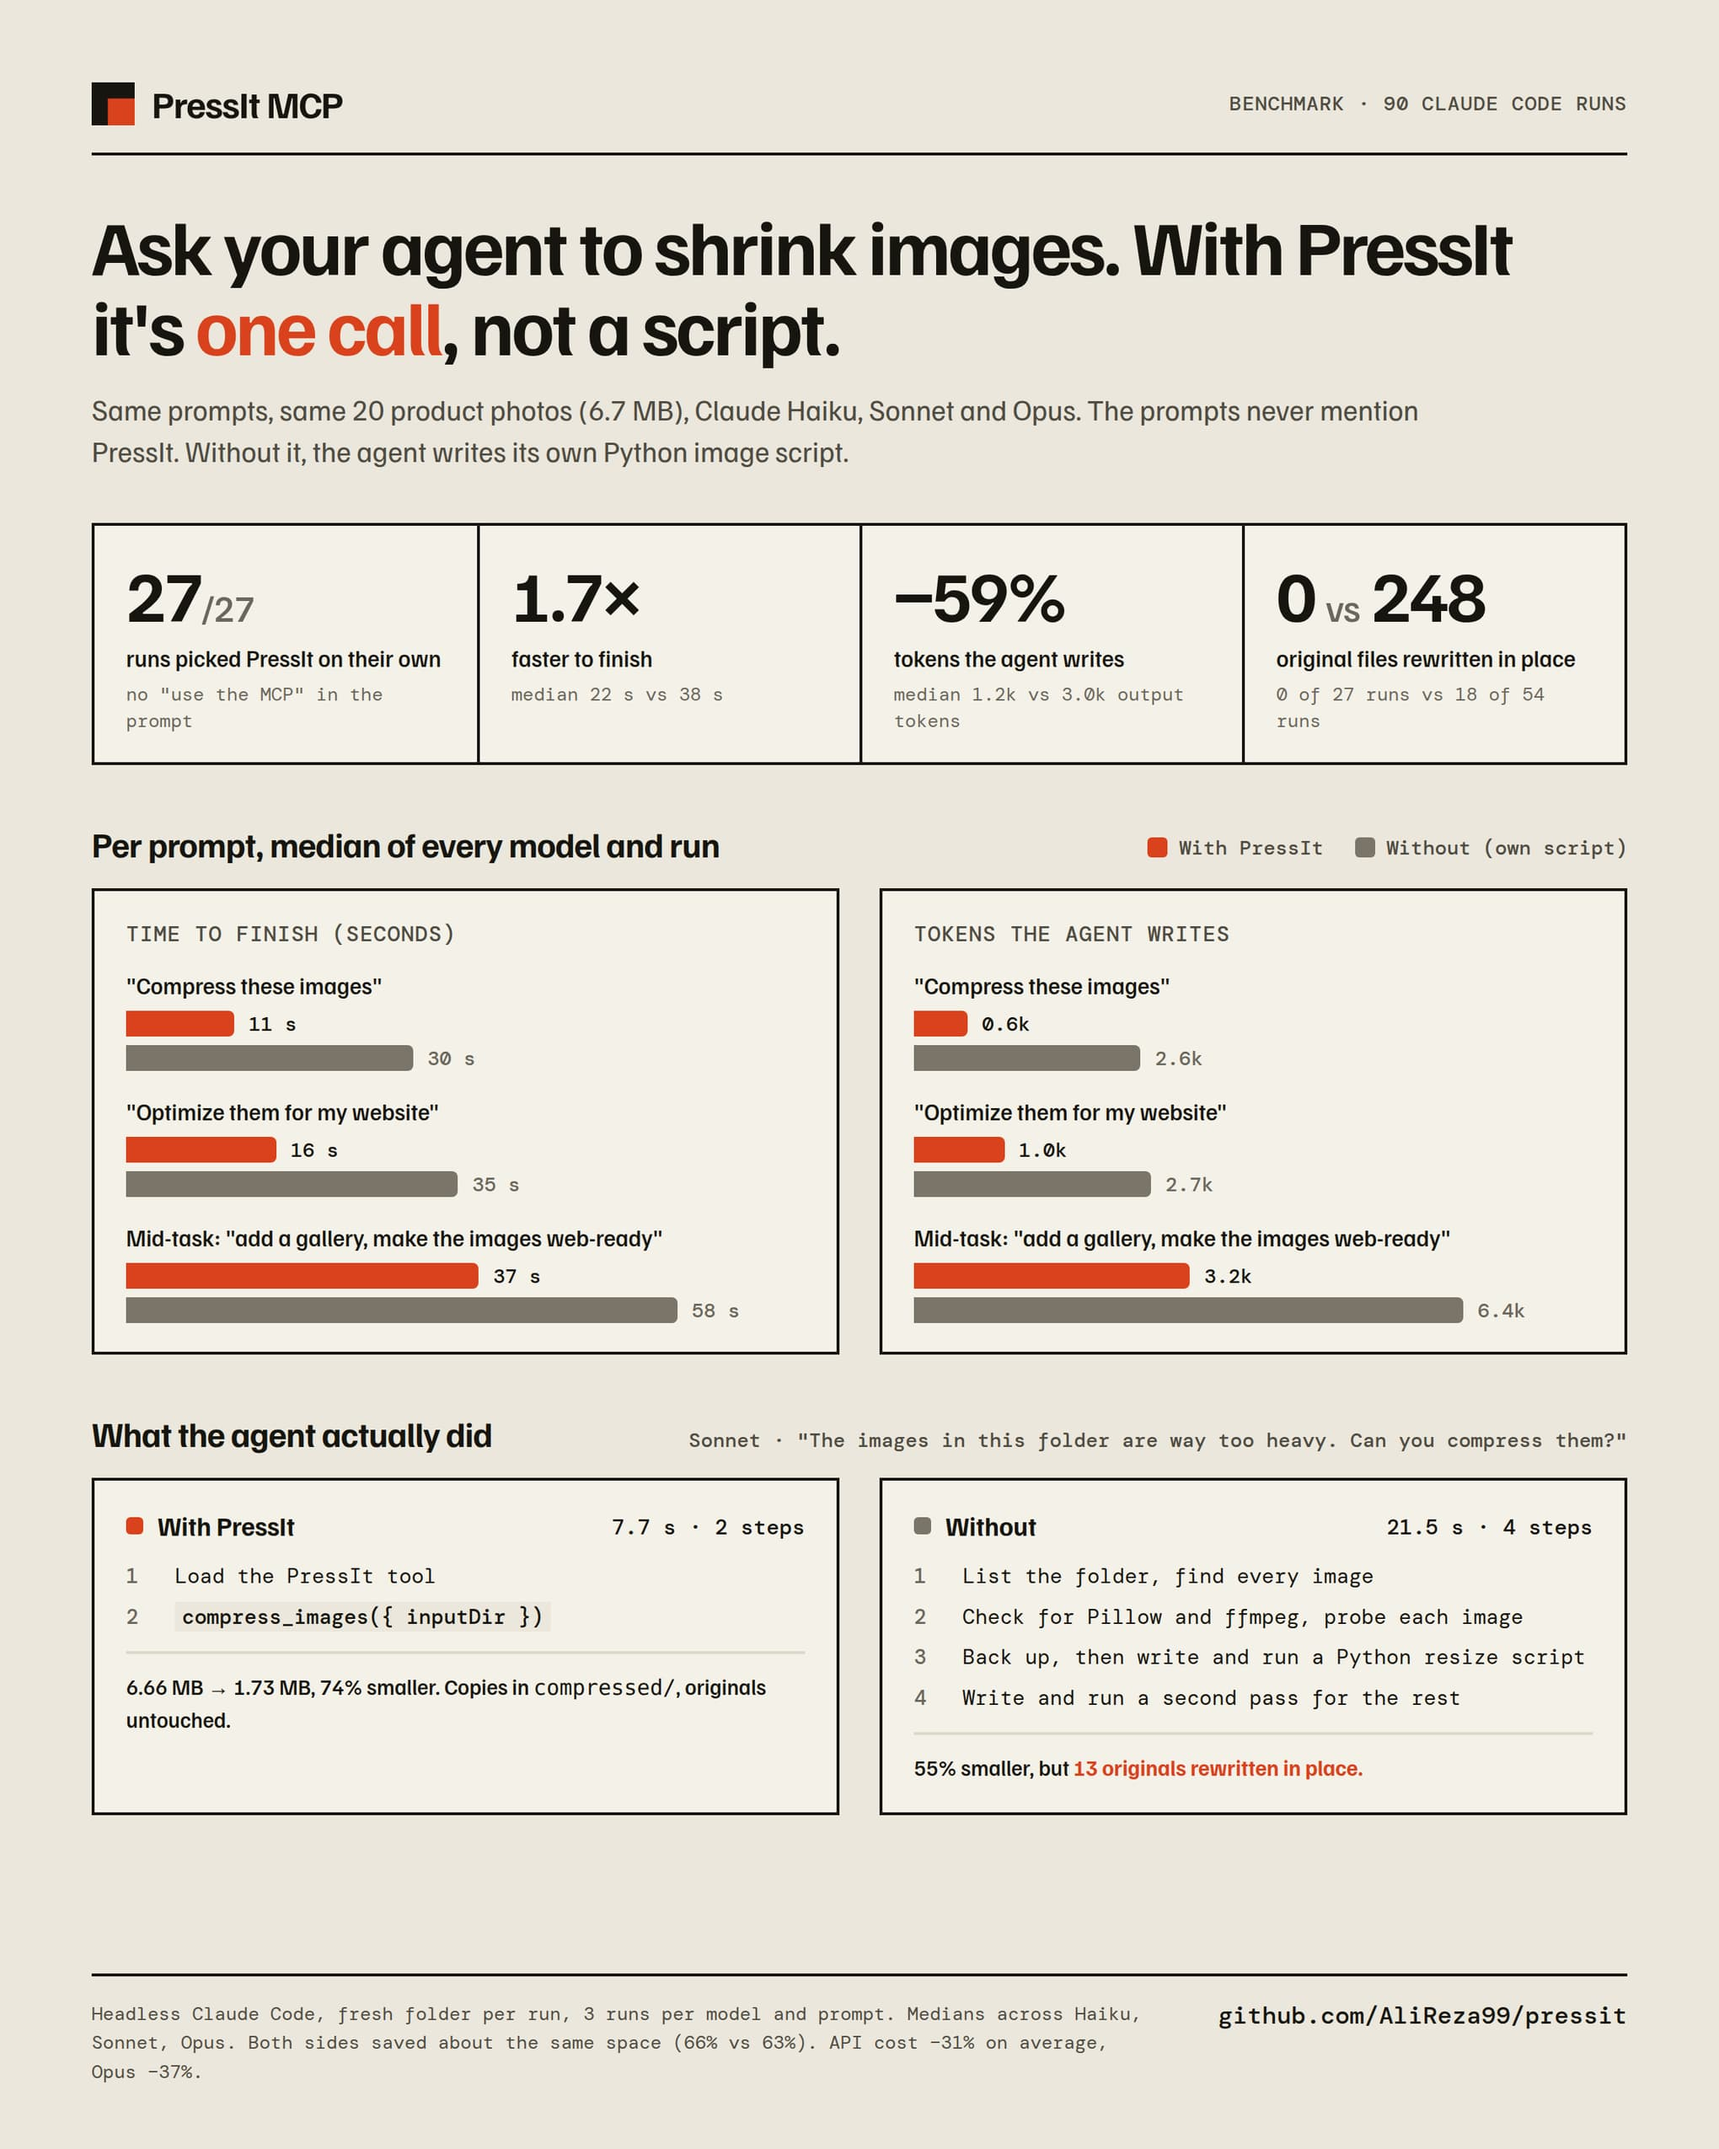
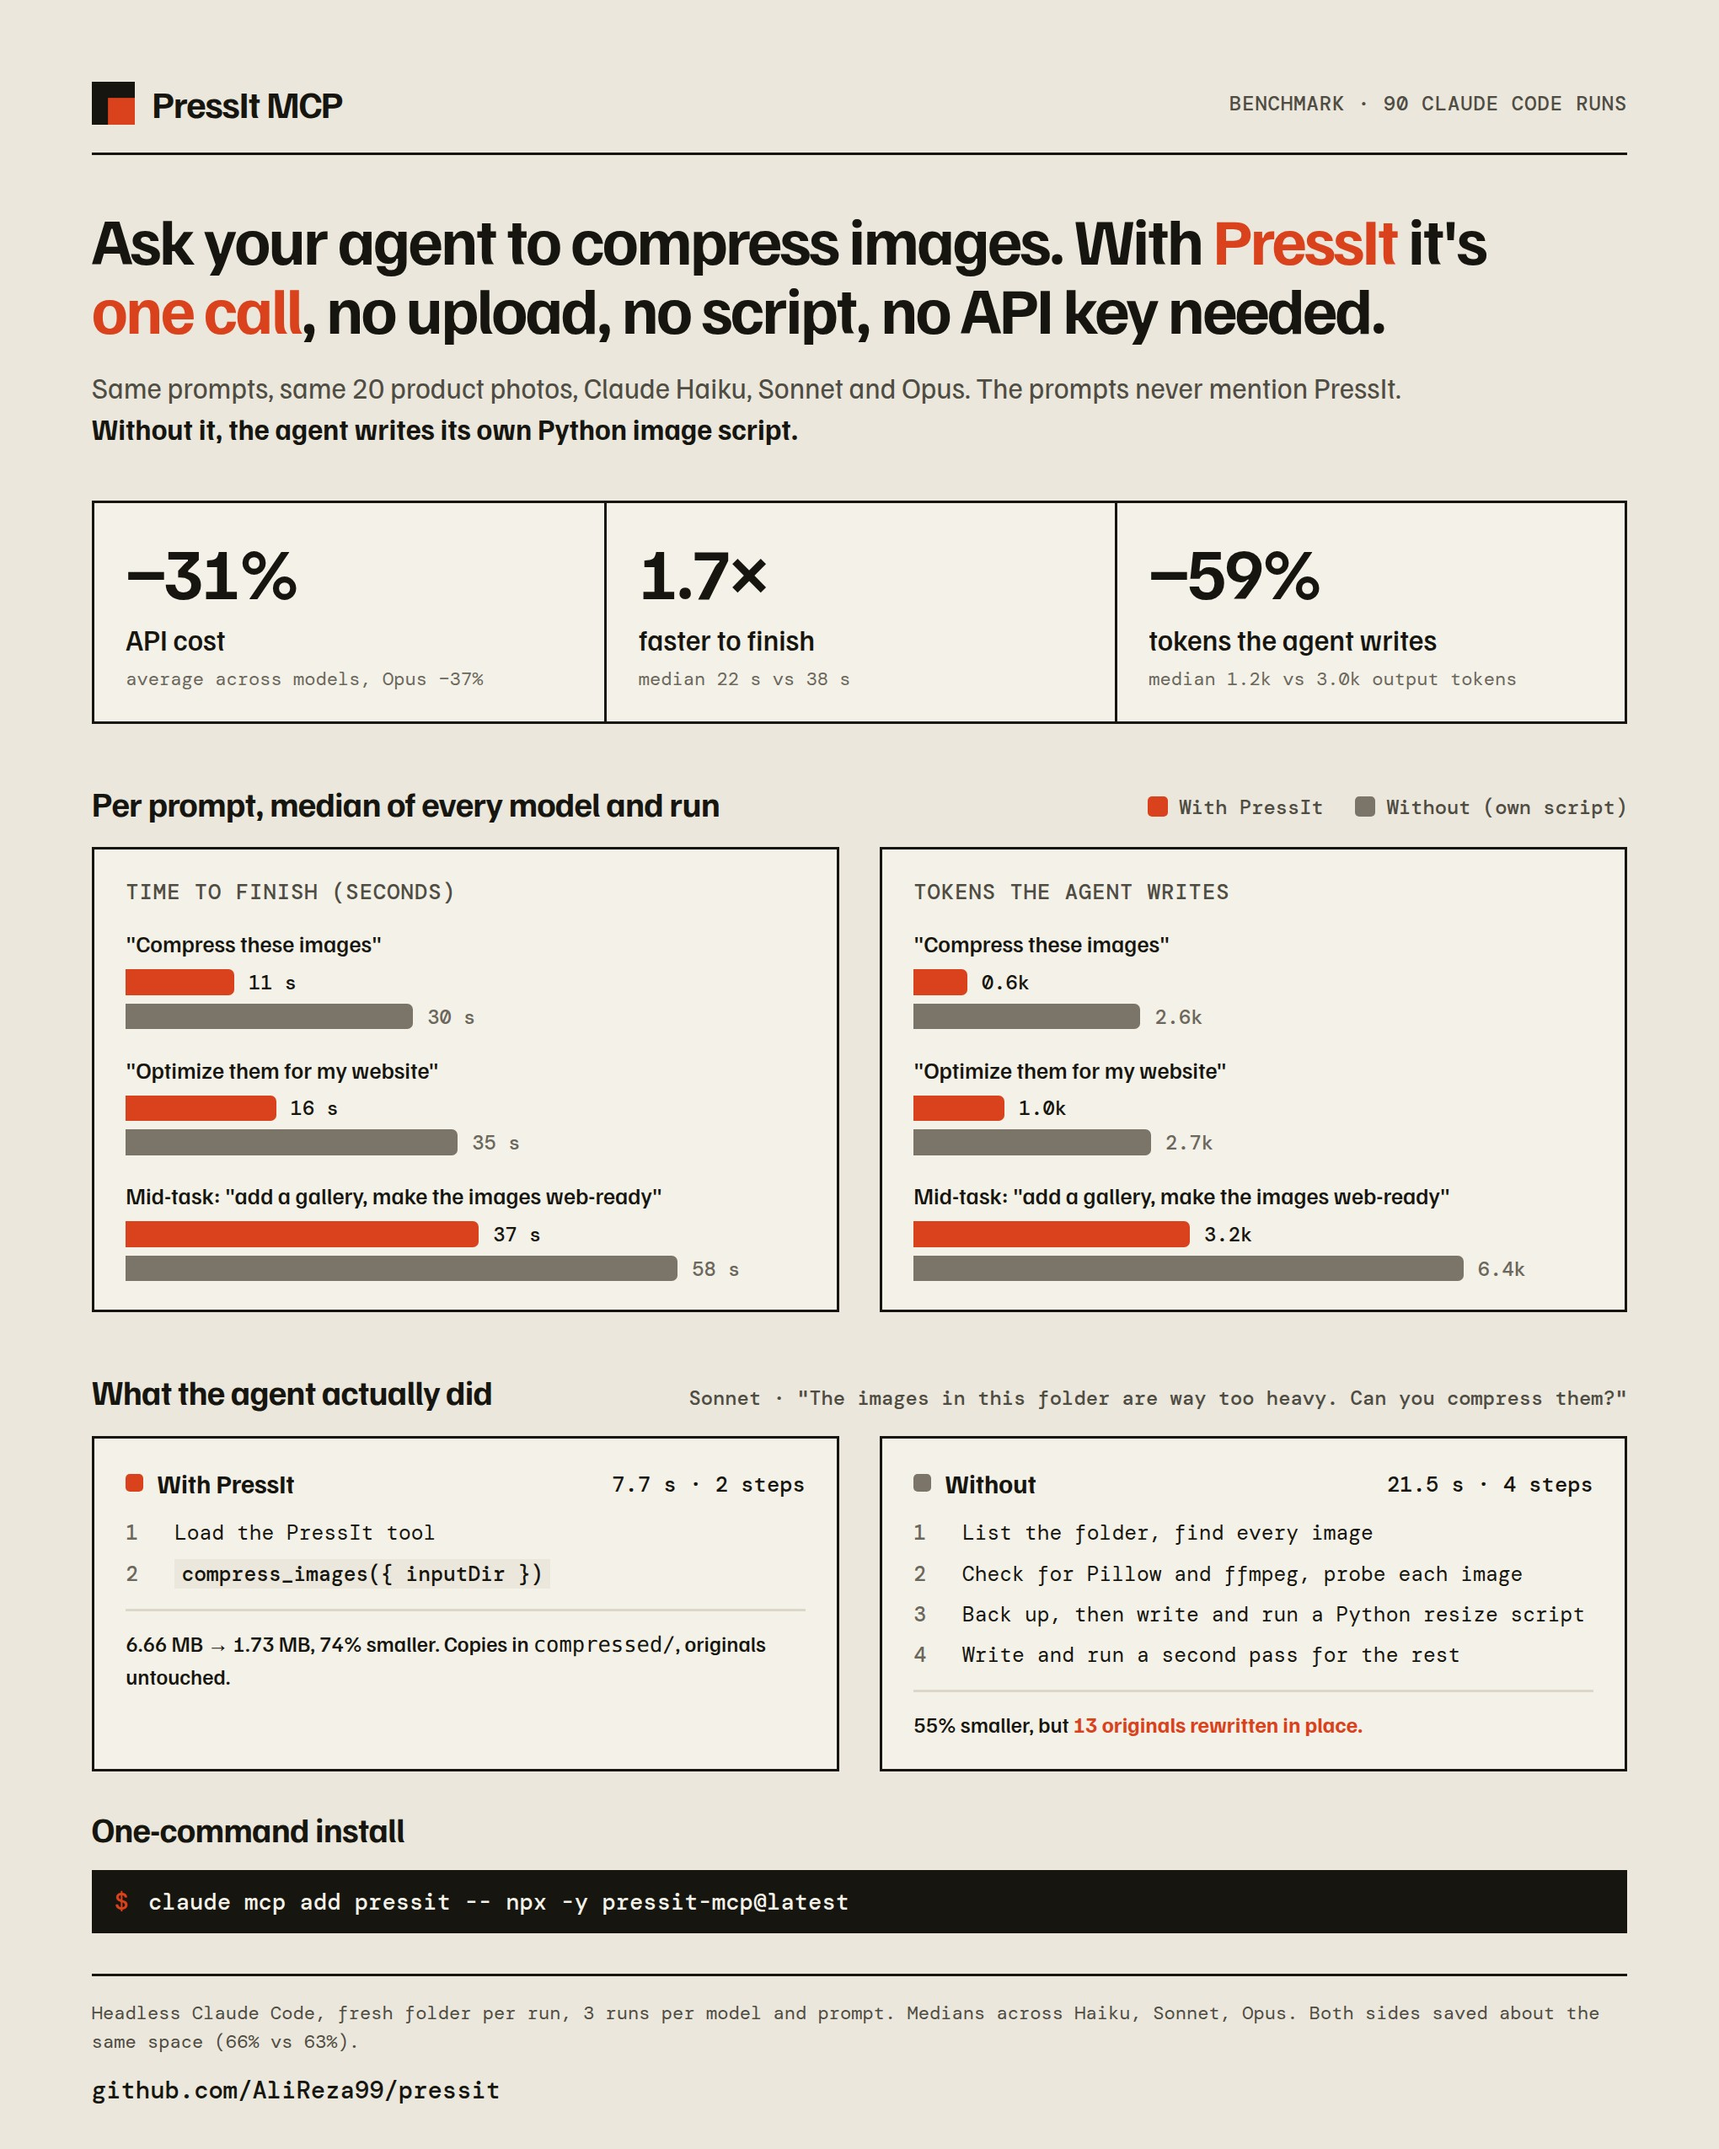
feat: update visual.html

diff --git a/bench/visual.html b/bench/visual.html
@@ -27,7 +27,7 @@
     min-height: 1500px;
     display: flex;
     flex-direction: column;
-    padding: 56px 64px 44px;
+    padding: 56px 64px 30px;
     background: var(--paper);
     color: var(--ink);
     font-family: var(--sans);
@@ -36,16 +36,17 @@
   .brand { display: flex; align-items: center; gap: 12px; font: 700 26px var(--sans); letter-spacing: -0.02em; }
   .brand svg { width: 30px; height: 30px; }
   .tag { font: 500 14px var(--mono); color: var(--text-secondary); letter-spacing: 0.04em; text-transform: uppercase; }
-  h1 { margin-top: 34px; font: 700 54px/1.04 var(--sans); letter-spacing: -0.035em; max-width: 1000px; }
+  h1 { margin-top: 34px; font: 700 46px/1.06 var(--sans); letter-spacing: -0.035em; max-width: 1000px; }
   h1 em { font-style: normal; color: var(--with); }
   .sub { margin-top: 16px; font: 400 20px/1.45 var(--sans); color: var(--text-secondary); max-width: 960px; }
 
-  .tiles { margin-top: 36px; display: grid; grid-template-columns: repeat(4, 1fr); border: 2px solid var(--ink); background: var(--card); }
+  .sub strong { font-weight: 700; color: var(--ink); }
+  .tiles { margin-top: 36px; display: grid; grid-template-columns: repeat(3, 1fr); border: 2px solid var(--ink); background: var(--card); }
   .tile { padding: 22px 22px 20px; }
   .tile + .tile { border-left: 2px solid var(--ink); }
   .tile .num { font: 700 50px/1 var(--sans); letter-spacing: -0.04em; }
   .tile .num small { font-size: 26px; letter-spacing: -0.02em; color: var(--muted); font-weight: 500; }
-  .tile .lbl { margin-top: 10px; font: 500 16px/1.3 var(--sans); }
+  .tile .lbl { margin-top: 10px; font: 500 20px/1.3 var(--sans); }
   .tile .fine { margin-top: 6px; font: 400 13px/1.4 var(--mono); color: var(--muted); }
 
   .section { margin-top: 40px; }
@@ -83,7 +84,10 @@
   .outcome { margin-top: 14px; padding-top: 12px; border-top: 2px solid var(--track); font: 500 15px/1.45 var(--sans); }
   .outcome.bad strong { color: var(--with); }
 
-  .foot { margin-top: auto; padding-top: 16px; border-top: 2px solid var(--ink); display: flex; justify-content: space-between; gap: 40px; font: 400 13px/1.55 var(--mono); color: var(--text-secondary); }
+  .foot { margin-top: 28px; padding-top: 16px; border-top: 2px solid var(--ink); display: flex; flex-direction: column; gap: 12px; font: 400 13px/1.55 var(--mono); color: var(--text-secondary); }
+  .setup { margin-top: auto; padding-top: 14px; }
+  .install { margin-top: 14px; display: flex; align-items: center; gap: 14px; padding: 12px 16px; background: var(--ink); color: var(--card); font: 500 16px var(--mono); }
+  .install b { font-weight: 500; color: var(--with); }
   .foot .repo { font: 500 17px var(--mono); color: var(--ink); white-space: nowrap; }
 </style>
 </head>
@@ -97,15 +101,15 @@
     <div class="tag">Benchmark · 90 Claude Code runs</div>
   </div>
 
-  <h1>Ask your agent to shrink images. With PressIt it's <em>one call</em>, not a script.</h1>
-  <p class="sub">Same prompts, same 20 product photos (6.7 MB), Claude Haiku, Sonnet and Opus.
-    The prompts never mention PressIt. Without it, the agent writes its own Python image script.</p>
+  <h1>Ask your agent to compress images. With <em>PressIt</em> it's <em>one call</em>, no upload, no script, no API key needed.</h1>
+  <p class="sub">Same prompts, same 20 product photos, Claude Haiku, Sonnet and Opus.
+    The prompts never mention PressIt. <strong>Without it, the agent writes its own Python image script.</strong></p>
 
   <div class="tiles">
     <div class="tile">
-      <div class="num" data-k="found">27<small>/27</small></div>
-      <div class="lbl">runs picked PressIt on their own</div>
-      <div class="fine">no "use the MCP" in the prompt</div>
+      <div class="num" data-k="cost">−31%</div>
+      <div class="lbl">API cost</div>
+      <div class="fine">average across models, Opus −37%</div>
     </div>
     <div class="tile">
       <div class="num" data-k="speed">1.7×</div>
@@ -116,11 +120,6 @@
       <div class="num" data-k="tokens">−59%</div>
       <div class="lbl">tokens the agent writes</div>
       <div class="fine">median 1.2k vs 3.0k output tokens</div>
-    </div>
-    <div class="tile">
-      <div class="num" data-k="orig">0 <small>vs</small> 248</div>
-      <div class="lbl">original files rewritten in place</div>
-      <div class="fine">0 of 27 runs vs 18 of 54 runs</div>
     </div>
   </div>
 
@@ -168,9 +167,14 @@
     </div>
   </div>
 
+  <div class="setup">
+    <h2>One-command install</h2>
+    <div class="install"><b>$</b><span>claude mcp add pressit -- npx -y pressit-mcp@latest</span></div>
+  </div>
+
   <div class="foot">
     <div>Headless Claude Code, fresh folder per run, 3 runs per model and prompt. Medians across Haiku, Sonnet, Opus.
-      Both sides saved about the same space (66% vs 63%). API cost −31% on average, Opus −37%.</div>
+      Both sides saved about the same space (66% vs 63%).</div>
     <div class="repo">github.com/AliReza99/pressit</div>
   </div>
 </div>
